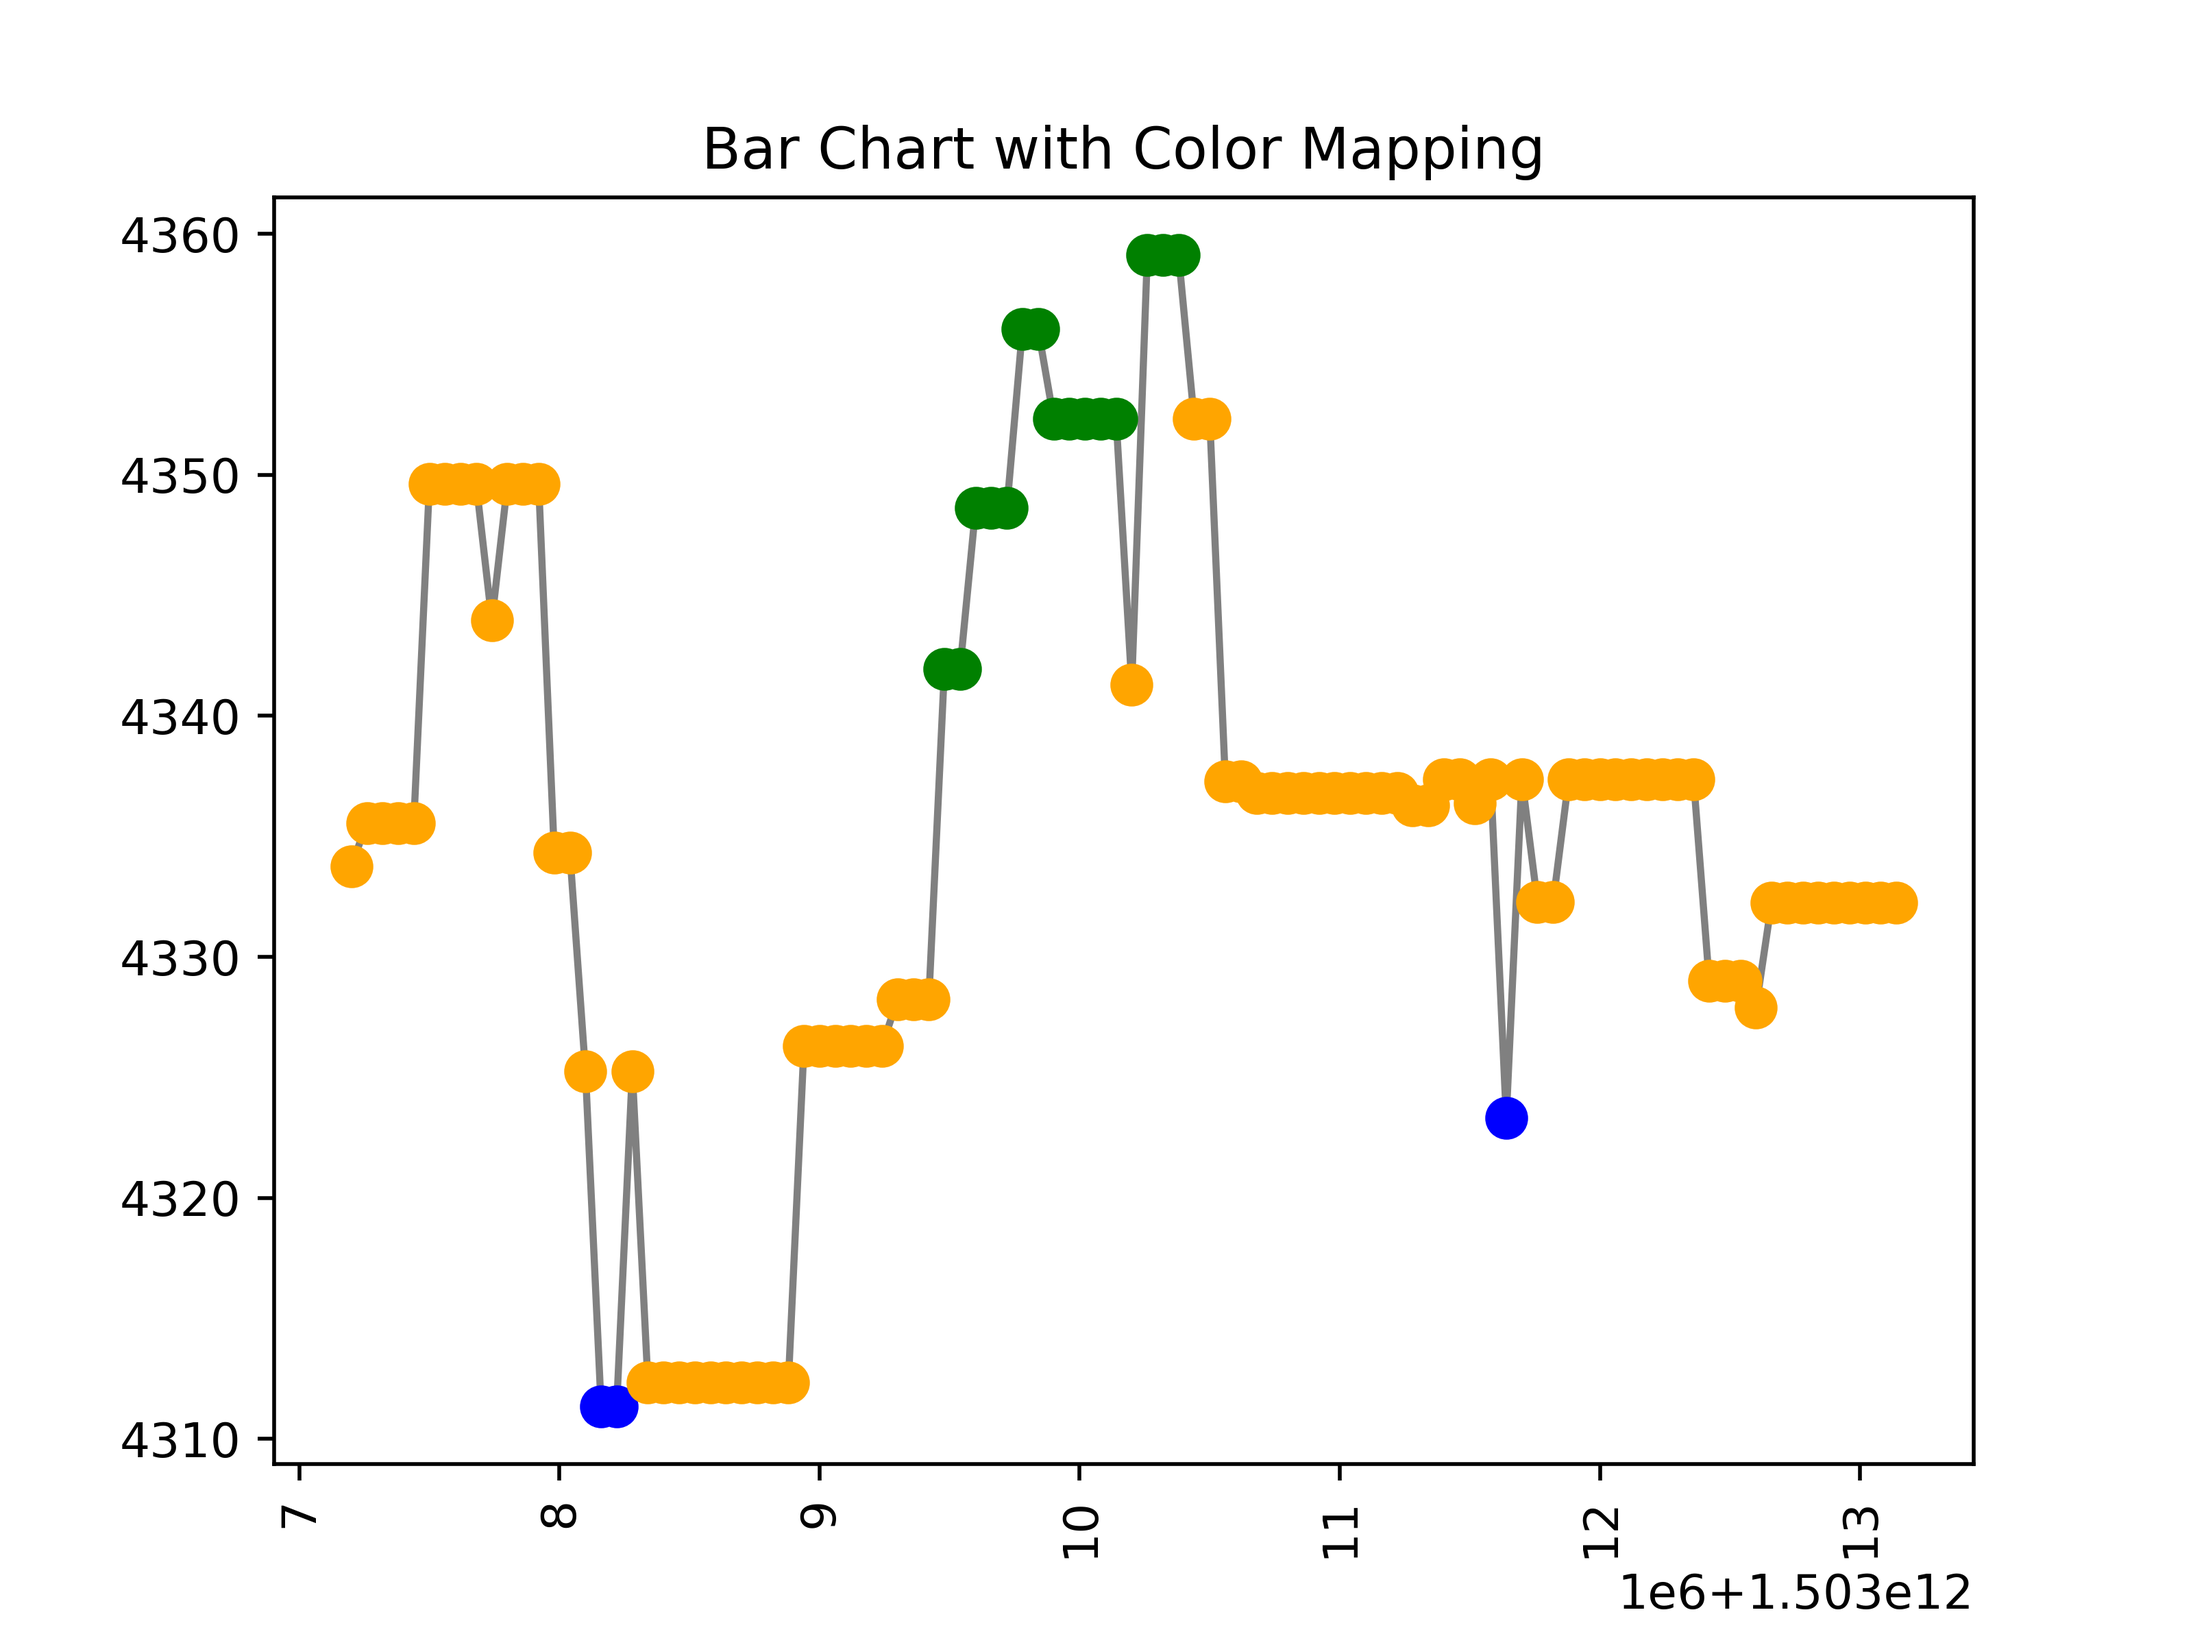
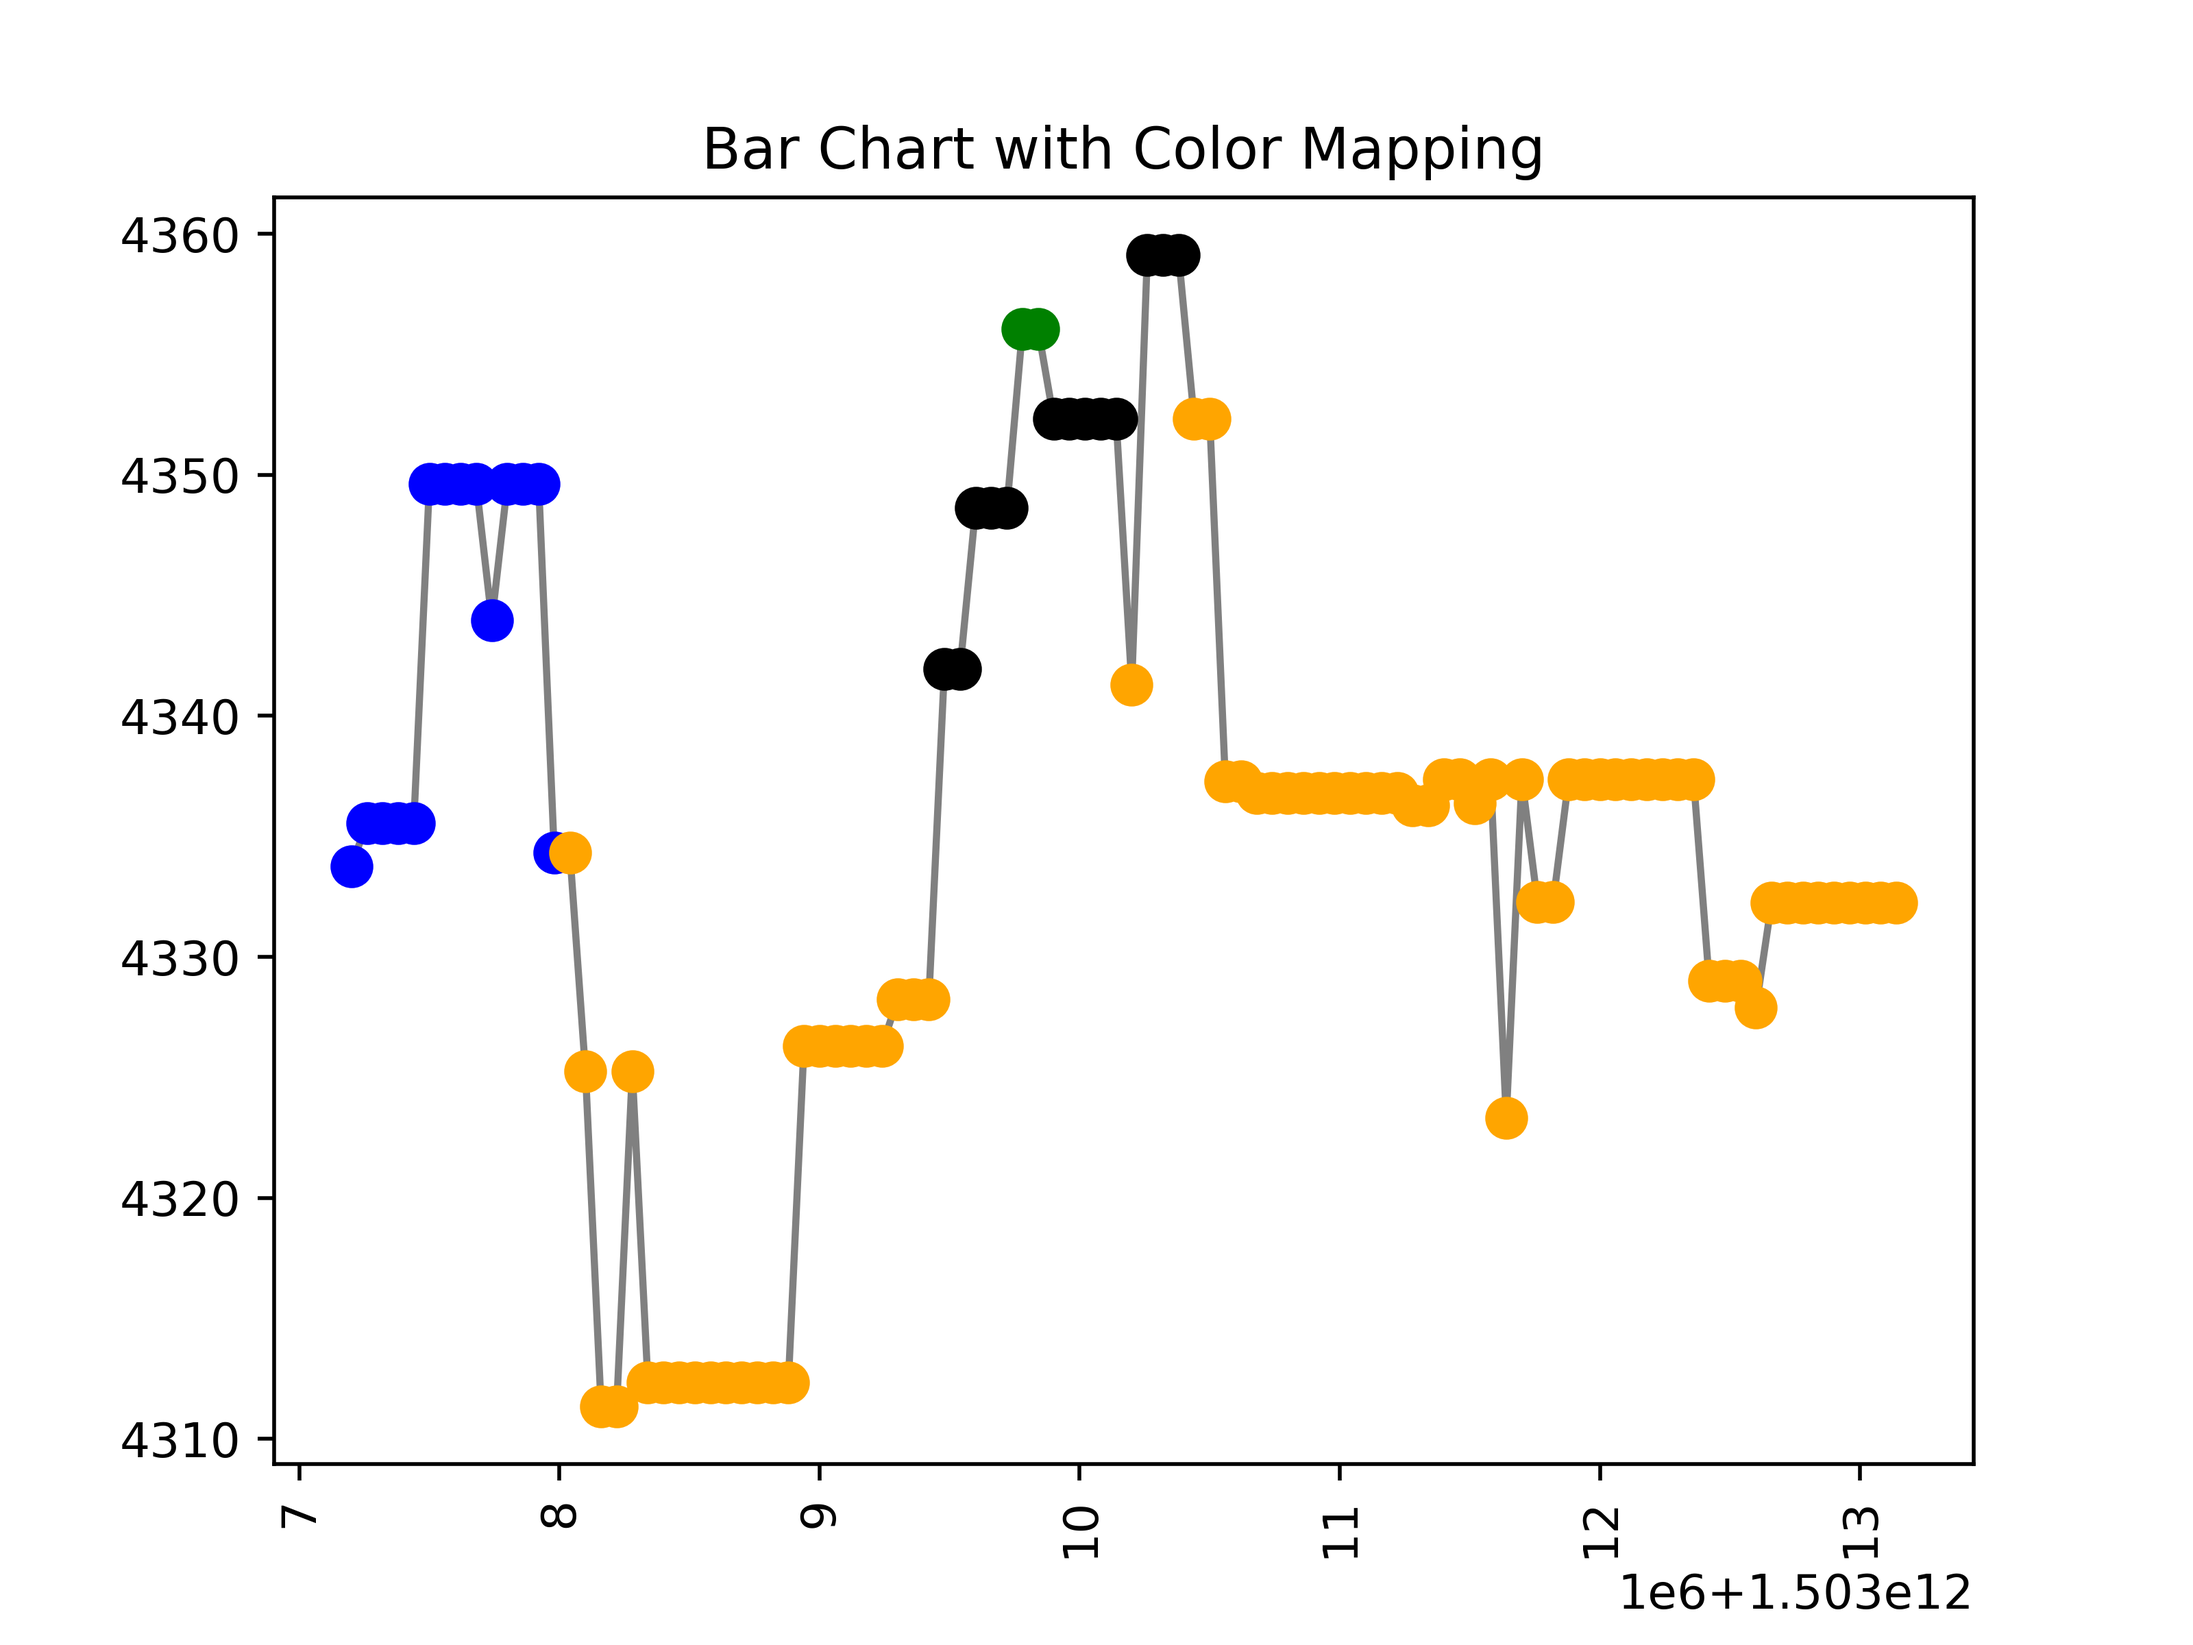
pushing changes

diff --git a/binance_app/relative_strength_index.py b/binance_app/relative_strength_index.py
@@ -16,32 +16,22 @@ def calculate_rsi(prices, period=14):
     return rsi
 
 
-def calculate_atr(df, period=14):
-    high = df['High']
-    low = df['Low']
-    close = df['Close']
-
-    tr = pd.concat([
-        high - low,
-        (high - close.shift()).abs(),
-        (low - close.shift()).abs()
-    ], axis=1).max(axis=1)
-
-    atr = tr.ewm(alpha=1/period, min_periods=period, adjust=False).mean()
-    
-    return atr
-
-
 def categorize(x):
-    if x > 66:
+    if x > 80:
         return "high"
-    elif x < 34:
-        return "low"
-    return "neutral"
+    elif x > 60:
+        return "good"
+    elif x > 40:
+        return "neutral"
+    elif x > 20:
+        return "neutral"
+    return "low"
 
 color_map = {
     'low': 'blue',
+    'mid' : 'yellow',
     'neutral': 'orange',
+    'good' : 'black',
     'high': 'green'
 }
 
@@ -51,4 +41,18 @@ df = pd.read_csv("bar_info.csv")
 rsi = calculate_rsi(df["close"])
 df["rsi_val"] = rsi
 df["rsi_val"] = df["rsi_val"].map(categorize)
+df = df[:100]
+print(len(df))
+
+colors = df["rsi_val"].map(color_map)
+print(df.index)
+
+plt.plot(df["open_time"], df['close'], color='gray', linestyle='-', marker='o')
+
+# Recolor markers individually
+for i in range(len(df)):
+    plt.plot(df["open_time"][i], df['close'][i], marker='o', color=colors[i], markersize=8)
+plt.title("Bar Chart with Color Mapping")
+plt.xticks(rotation=90)
+plt.savefig("rsi_mapped_prices.png", dpi=500)
 df.to_csv("bar_info3.csv")

diff --git a/binance_app/DataCollector.py b/binance_app/DataCollector.py
@@ -75,6 +75,9 @@ class DataCollector:
 
     def get_data_df(self):
         df = pd.DataFrame(self.data, columns=self.columns)
+        rsi = self.calculate_rsi(df["close"])
+        df["rsi"] = rsi
+        df["atr"] = self.calculate_atr(df)
         df.to_csv("bar_info.csv", index=False)
         return df
 
